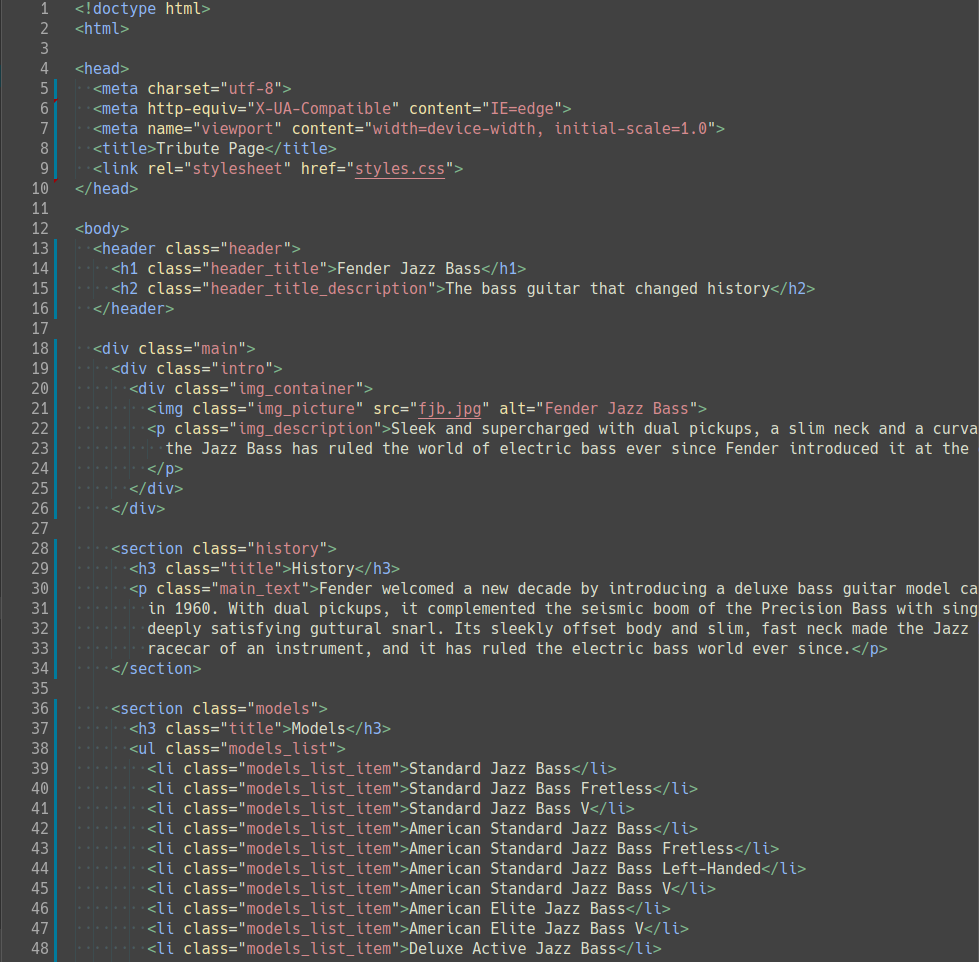
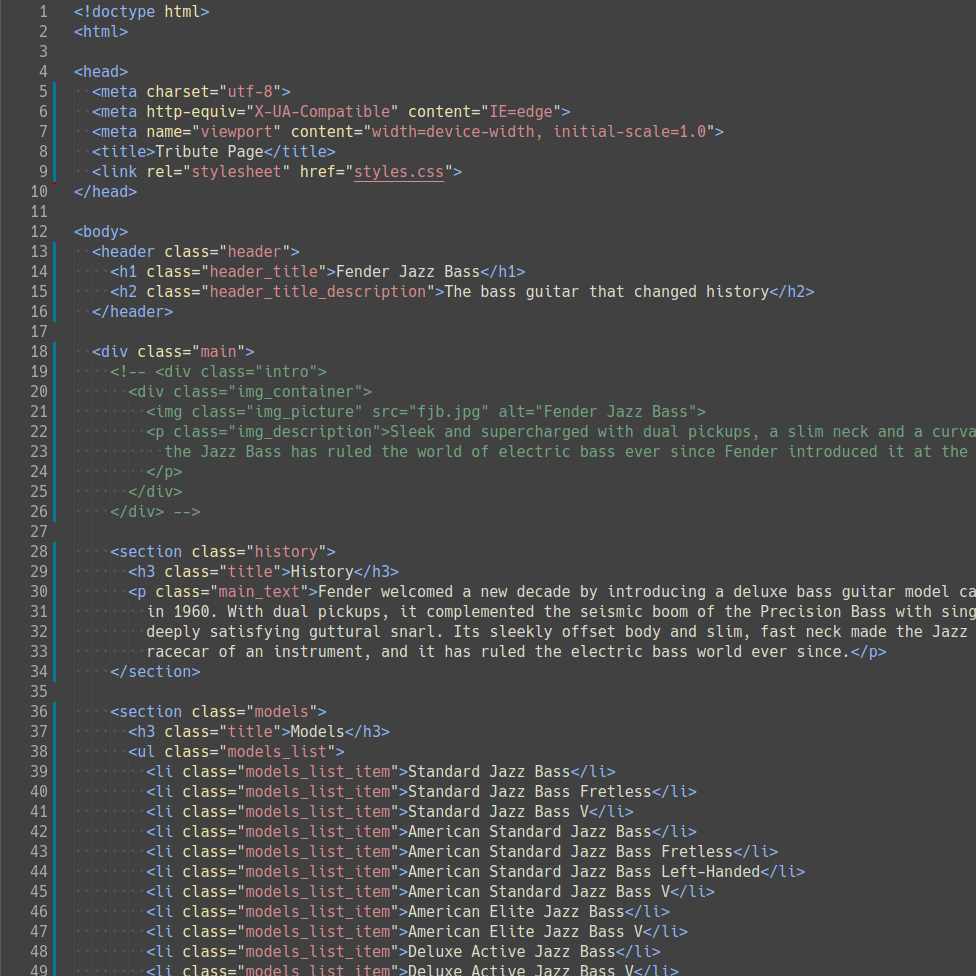
theme: html: update color and screenshot

Changed region(s): [[0.123, 0.5613, 1.0, 1.0], [0.0307, 0.0, 1.0, 1.0]]

diff --git a/CHANGELOG.md b/CHANGELOG.md
@@ -1,5 +1,10 @@
 # Changelog
 
+## v.0.2.4
+
+- Change `punctuation.definition.tag.begin`, `punctuation.definition.tag.end` color to `blue`
+- Update HTML screenshot
+
 ## v0.2.3
 
 - Update JavaScript screenshot
@@ -14,10 +19,10 @@
 
 ## v0.2.0
 
-- Graphql: fix variable.parameter.graphql color
+- Graphql: fix `variable.parameter.graphql` color
 - HTML: update tag color
 - Add VTL support
-- Comment: fix punctuation.definition.comment color
+- Comment: fix `punctuation.definition.comment` color
 - Update .env support
 - Update YAML string unquoted
 - Update CSS colors
